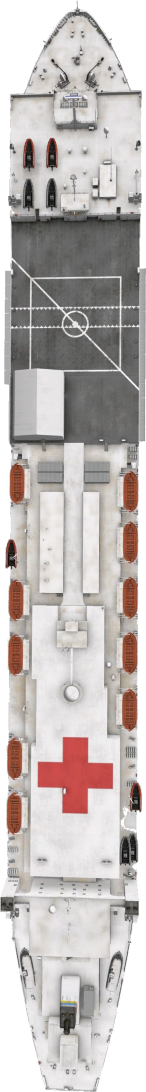
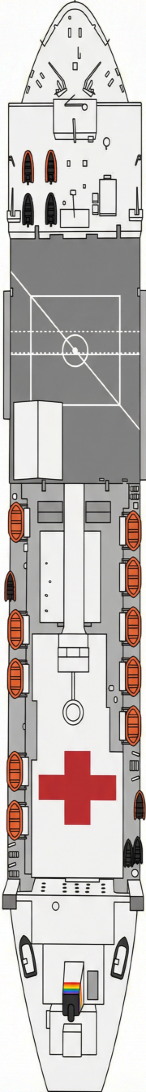
fix: Replace the images of the Mercy and Peace Ark.

diff --git a/pkg/mission/manager/daemon.go b/pkg/mission/manager/daemon.go
@@ -121,7 +121,7 @@ func (m *MissionManager) updateHospitalShipHealing() {
 				continue
 			}
 			// 恢复 HP（不超过上限）
-			healAmount := ship.Length * ship.Width / 16
+			healAmount := ship.Length * ship.Width / 6
 			target.CurHP = min(target.TotalHP, target.CurHP+healAmount)
 			// 创建绿色浮动治疗文字
 			text := fmt.Sprintf("+ %d HP", int(healAmount))
